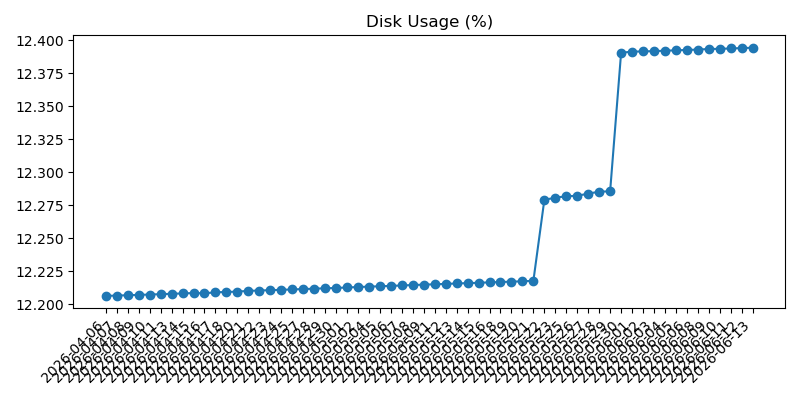
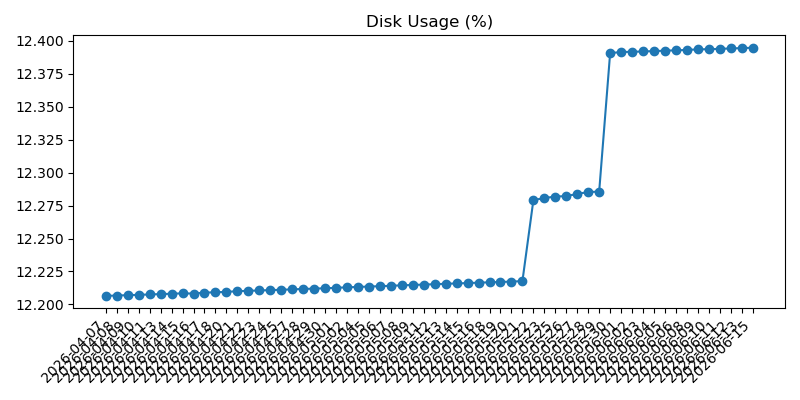
Add daily system and weather report

diff --git a/2026-06.md b/2026-06.md
@@ -408,3 +408,37 @@
 - Overall: Warning
 - Warning: Power issue detected: Undervoltage has occurred; Throttling has occurred
 
+## 2026-06-15 10:18:50
+
+### Machine
+- Uptime: up 7 weeks, 6 days, 12 hours, 4 minutes
+- CPU load (1m, 5m, 15m): 0.00, 0.00, 0.00
+- RAM used: 197 MB / 921 MB (21.4%)
+- Disk used (/): 3.6 GB / 28.8 GB (12.4%)
+- Free disk space (/): 24.0 GB
+- CPU temp: 45.1°C
+- Voltage / throttling: Undervoltage has occurred; Throttling has occurred
+
+### Reachability
+- Internet check (1.1.1.1): Reachable (6.1 ms)
+
+### Weather
+- Madrid:
+  - Condition: Intervalos nubosos con lluvia
+  - Max temp: 30°C
+  - Min temp: 18°C
+  - Feels like: 24°C
+  - Chance of rain: 90%
+  - Warnings: None reported
+- Barcelona:
+  - Condition: Poco nuboso
+  - Max temp: 30°C
+  - Min temp: 22°C
+  - Feels like: 26°C
+  - Chance of rain: 0%
+  - Warnings: None reported
+
+### Health
+- Overall: Warning
+- Warning: Power issue detected: Undervoltage has occurred; Throttling has occurred
+